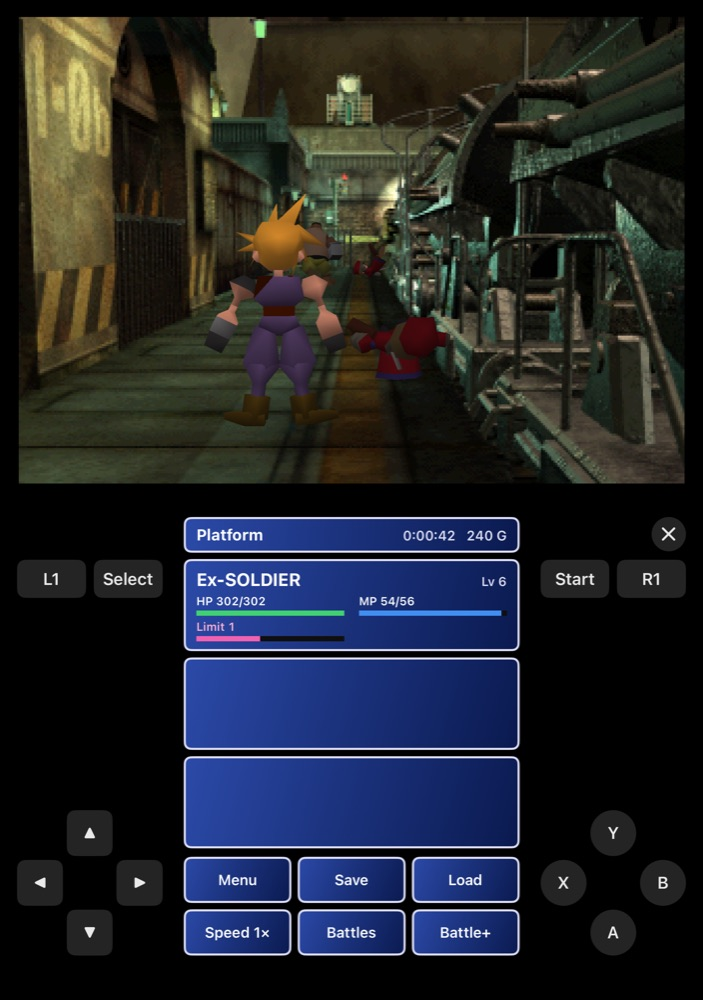
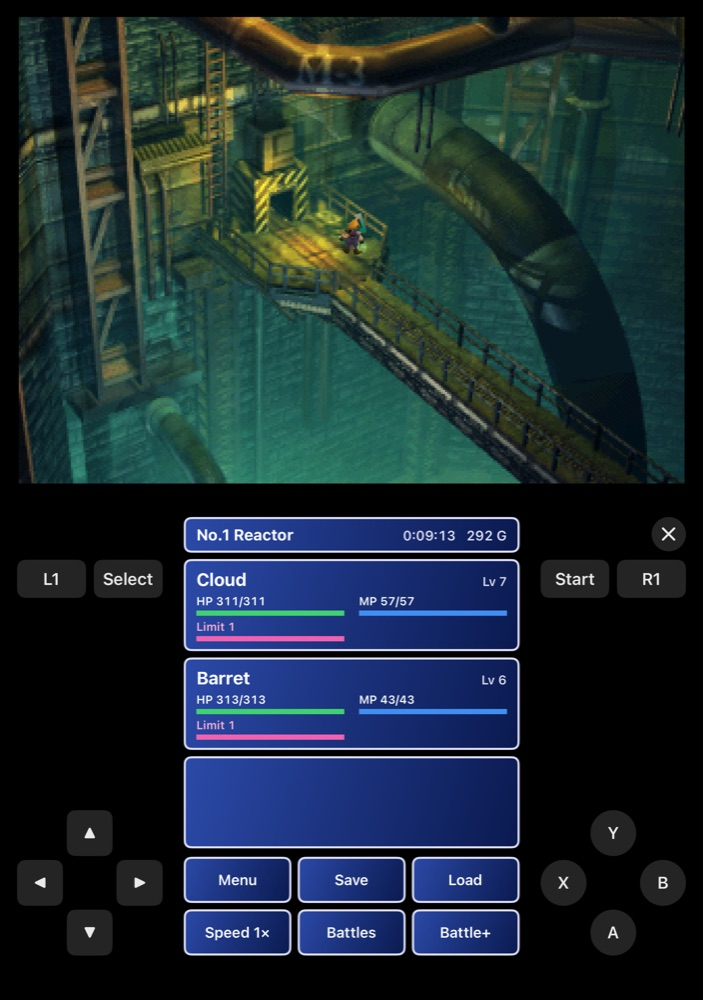
README: new screenshots (Duo upright with the status panel, mods, Get Mods, mod page and options, setup)

diff --git a/README.md b/README.md
@@ -53,7 +53,7 @@ and on device.
 
 <table>
 <tr>
-<td width="40%"><img src="docs/screenshots/duo-portrait.jpg" alt="iPhone Duo open and upright: the game in the top half, the status panel and touch pad below"></td>
+<td width="40%"><img src="docs/screenshots/duo-portrait.jpg" alt="iPhone Duo open and upright in the first reactor: the game in the top half; below, the status panel with Cloud and Barret, quick buttons, and the touch pad at the sides"></td>
 <td>
 
 ### iPhone Duo — upright
@@ -79,6 +79,16 @@ connected, the pad hides (Settings → Controls).
 | :---: |
 | ![iPhone 18 Pro in landscape: the 4:3 picture with the pad in the side bars](docs/screenshots/iphone18pro.jpg) |
 | Pad in the black bars beside the 4:3 picture. Slide without lifting; multi-touch; every tap reaches the game. |
+
+| Mods | Get Mods | A catalog mod |
+| :---: | :---: | :---: |
+| <img src="docs/screenshots/mods.jpg" alt="Mods: Get Mods on top, the installed mods with on/off switches and their options" width="260"> | <img src="docs/screenshots/getmods.jpg" alt="Get Mods: 7th Heaven's catalogs, 115 mods, All / Installed / Updates" width="260"> | <img src="docs/screenshots/moddetail.jpg" alt="Echo-S in Get Mods: preview, category, author, version, size, Install" width="260"> |
+| Your mods in load order; higher wins. Switch each on or off. | 7th Heaven's Qhimm and Sega catalogs: search, categories, updates. | Preview and details; **Install** downloads it in the background. |
+
+| Touch and hold a mod | Mod options |
+| :---: | :---: |
+| <img src="docs/screenshots/modmenu.jpg" alt="Touch and hold a mod: Options and Delete" width="260"> | <img src="docs/screenshots/modoptions.jpg" alt="Compact Battle UI options: switched on, Battle UI Style" width="260"> |
+| **Options…** or **Delete**. | The mod's own settings, applied the next time the game starts. |
 
 | First launch | FF7Recomp Builder (Mac) |
 | :---: | :---: |
